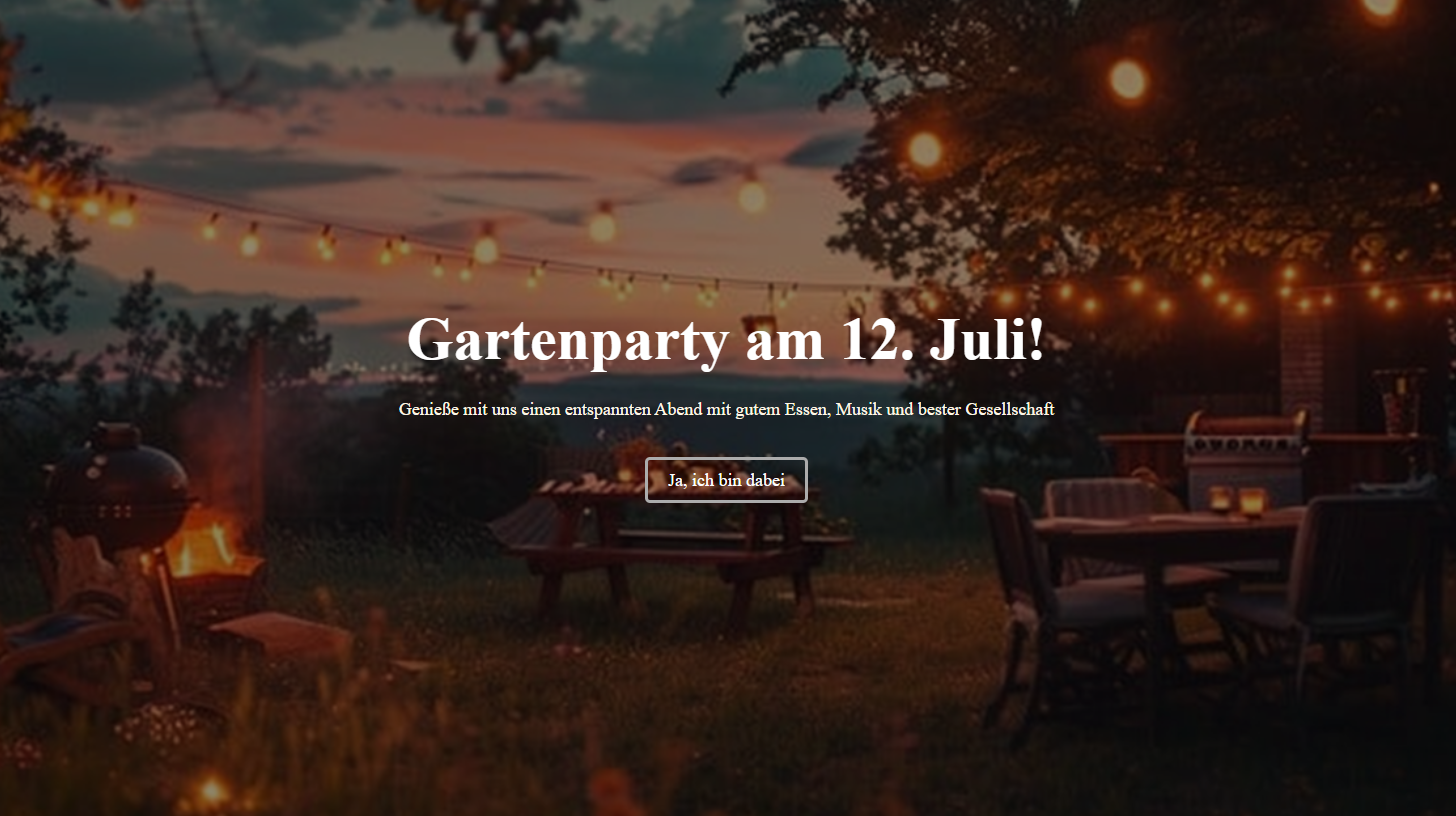
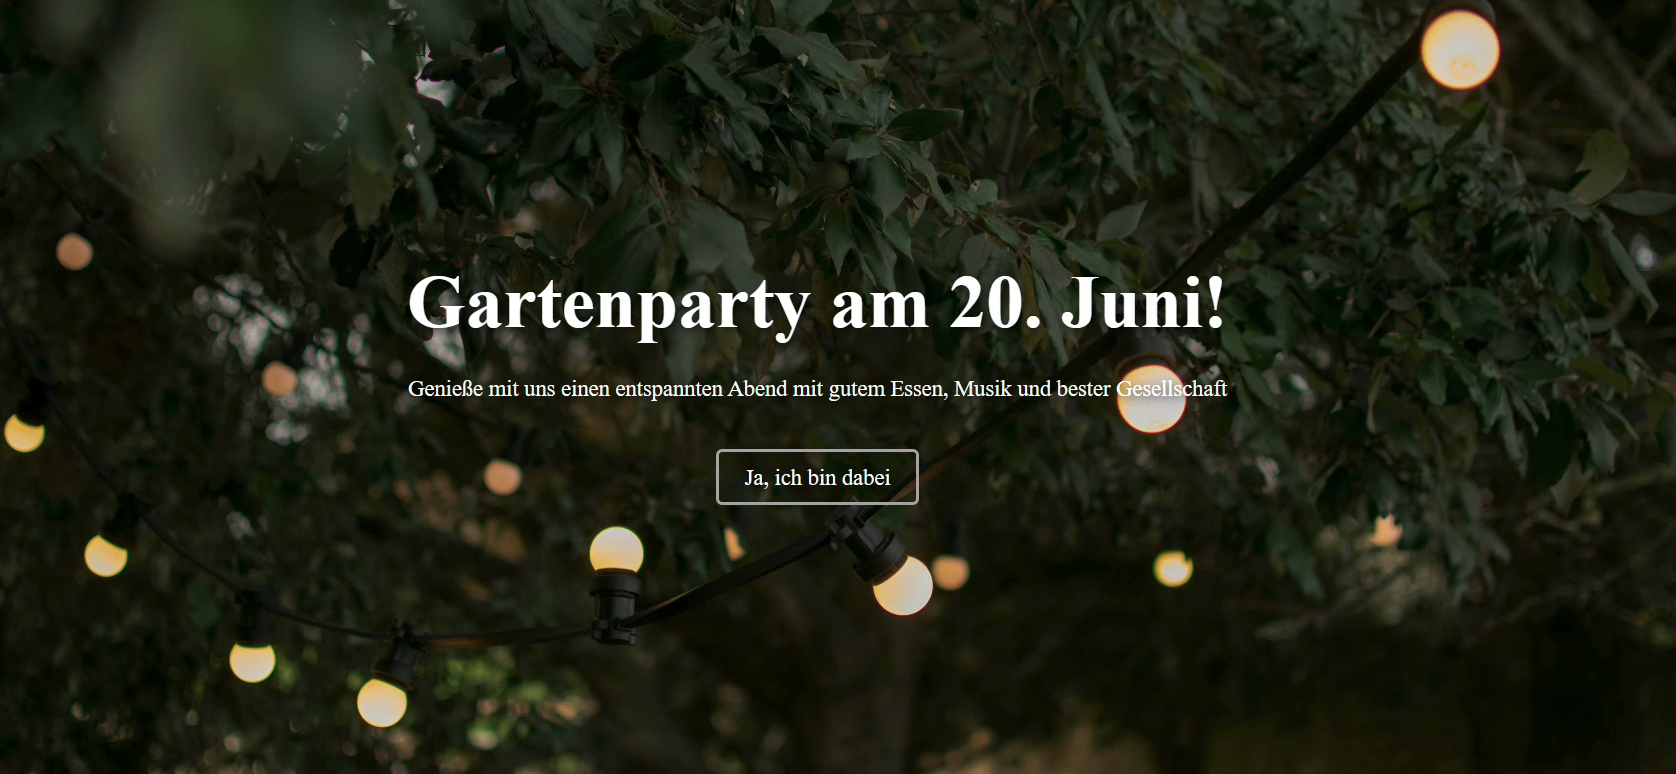
Refresh 2026 website with new images and colors

diff --git a/index.html b/index.html
@@ -66,11 +66,11 @@
 
                     <!-- Event information section with image and details -->
                     <section class="event_info">
-                        <img src="images/kreuzlingen_hafen.png" alt="kreuzlingen_hafen" class="event-image" />
+                        <img src="images/gartenparty2025.jpg" alt="gartenparty2025" class="event-image" />
                         <div class="info left" style="padding: 33px 0">
                             <h2 data-i18n="eventTitle">Gemütliches Gartenfest am 20. Juni 2026</h2>
                             <p data-i18n="eventDetails">
-                                Die Party beginnt am <span style="color: #197b30; font-weight: bold">Samstag, den 20.06.</span>, um <span style="color: #d97325; font-weight: bold">17 Uhr</span> in
+                                Die Party beginnt am <span style="color: #c97745; font-weight: bold">Samstag, den 20.06.</span>, um <span style="color: #c97745; font-weight: bold">17 Uhr</span> in
                                 unserem Garten in Kreuzlingen.<br />
                                 Für Snacks, Salate, Baguette, Soßen und glutenfreies Brot sowie Getränke ist gesorgt.<br />
                                 Bring gern eigenes Grillgut mit.<br />
@@ -96,18 +96,24 @@
                     <section class="highlights">
                         <!-- Drinks Section -->
                         <div class="highlight-item">
-                            <img src="images/drinks.png" alt="drinks" />
+                            <img src="images/drinks.jpg" alt="drinks" />
                             <h3 data-i18n="drinksTitle">Erfrischende Getränke</h3>
                             <!-- Drinks description -->
-                            <p data-i18n="drinksDesc">Kühle Getränke und Cocktails, frisch gemixt für den perfekten Sommergenuss.<br />Ideal, um an warmen Tagen den Durst zu löschen</p>
+                            <p data-i18n="drinksDesc">
+                                Kühle Getränke und Cocktails, frisch gemixt<br />
+                                für den perfekten Sommergenuss.<br />Ideal, um an warmen Tagen den Durst zu löschen
+                            </p>
                         </div>
 
                         <!-- Grill Section -->
                         <div class="highlight-item">
-                            <img src="images/grill.png" alt="grill" />
+                            <img src="images/grill.jpg" alt="grill" />
                             <h3 data-i18n="grillTitle">Leckeres Grillgut</h3>
                             <!-- Grill description -->
-                            <p data-i18n="grillDesc">Herzhafte Spieße, knackige Würstchen und frisches Gemüse vom Grill.<br />Perfekt für den gemütlichen Sommerabend</p>
+                            <p data-i18n="grillDesc">
+                                Herzhafte Spieße, knackige Würstchen<br />
+                                und frisches Gemüse vom Grill.<br />Perfekt für den gemütlichen Sommerabend
+                            </p>
                         </div>
 
                         <!-- Games Section -->
@@ -115,7 +121,10 @@
                             <img src="images/beerpong.png" alt="beerpong" />
                             <h3 data-i18n="gamesTitle">Garten Spiele</h3>
                             <!-- Games description -->
-                            <p data-i18n="gamesDesc">Spaß und Unterhaltung mit Trinkspielen wie Beerpong oder Flunkyball.<br />Lachen und gute Laune garantiert</p>
+                            <p data-i18n="gamesDesc">
+                                Spaß und Unterhaltung mit Trinkspielen<br />
+                                wie Beerpong oder Flunkyball.<br />Lachen und gute Laune garantiert
+                            </p>
                         </div>
                     </section>
 

diff --git a/css/style.css b/css/style.css
@@ -100,8 +100,9 @@ header a:hover {
 .news {
     background-color: antiquewhite;
     color: white;
+    text-shadow: 2px 2px 8px rgba(0, 0, 0, 0.6);
     height: 95vh;
-    background-image: url("../images/evening_garden_party.png");
+    background-image: url("../images/evening_garden_party.jpg");
     background-repeat: no-repeat;
     background-size: cover;
     background-position: center;
@@ -116,7 +117,6 @@ header a:hover {
     margin-top: 60px;
 }
 .news p {
-    color: #fef7e6;
     font-size: 18px;
     margin: 25px 0;
 }
@@ -131,7 +131,7 @@ header a:hover {
 
 /* Slogan area: centered text, colored background */
 .slogan {
-    background-color: #485652;
+    background-color: #a85f43;
     color: white;
     height: 250px;
     display: flex;
@@ -184,7 +184,8 @@ header a:hover {
 /* Text info area beside the image */
 .info {
     width: 50%;
-    background-color: white;
+    color: white;
+    background-color: #203f36;
     display: flex;
     flex-direction: column;
     align-items: center;

diff --git a/ort_und_anfahrt.html b/ort_und_anfahrt.html
@@ -57,7 +57,7 @@
                     <!-- Location information and Google Maps embed section -->
                     <section class="event_info">
                         <!-- Text info about the party location -->
-                        <div class="info" style="background: #ede9db">
+                        <div class="info" style="color: black; background: #ede9db">
                             <h2 data-i18n="partyLocationHeading">Ort der Gartenparty</h2>
                             <p data-i18n="partyLocationDesc">
                                 <strong>
